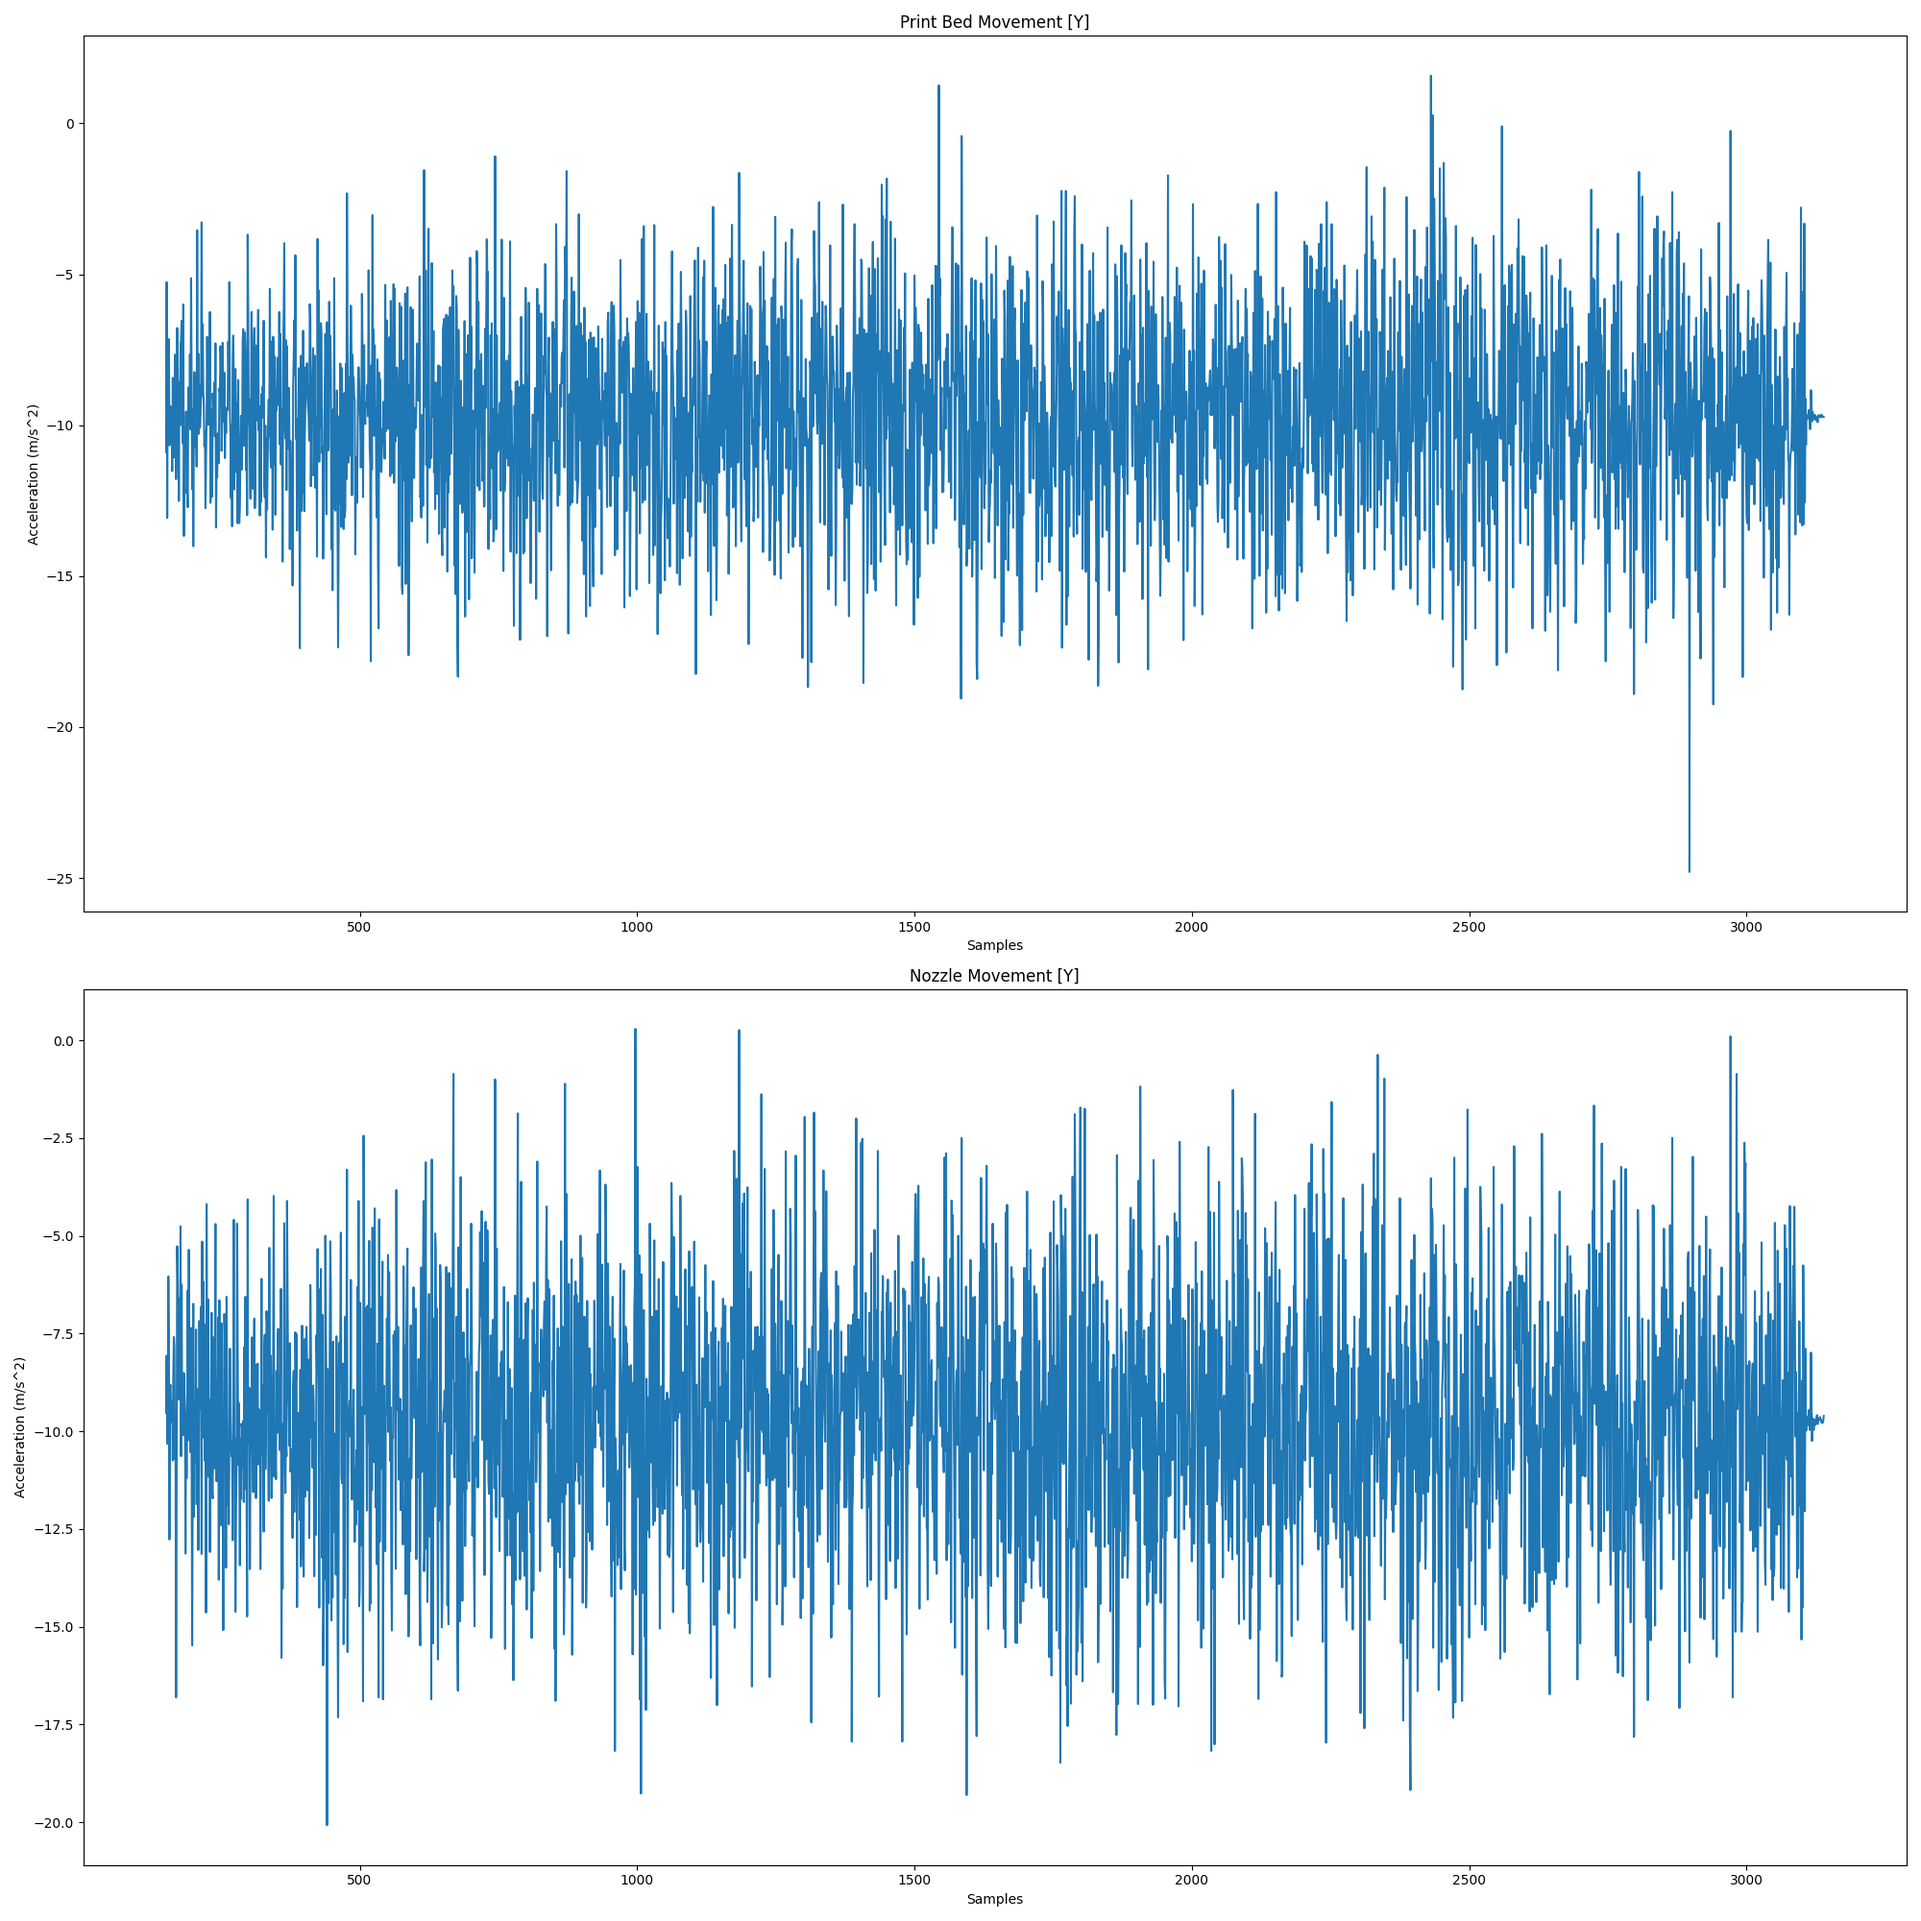
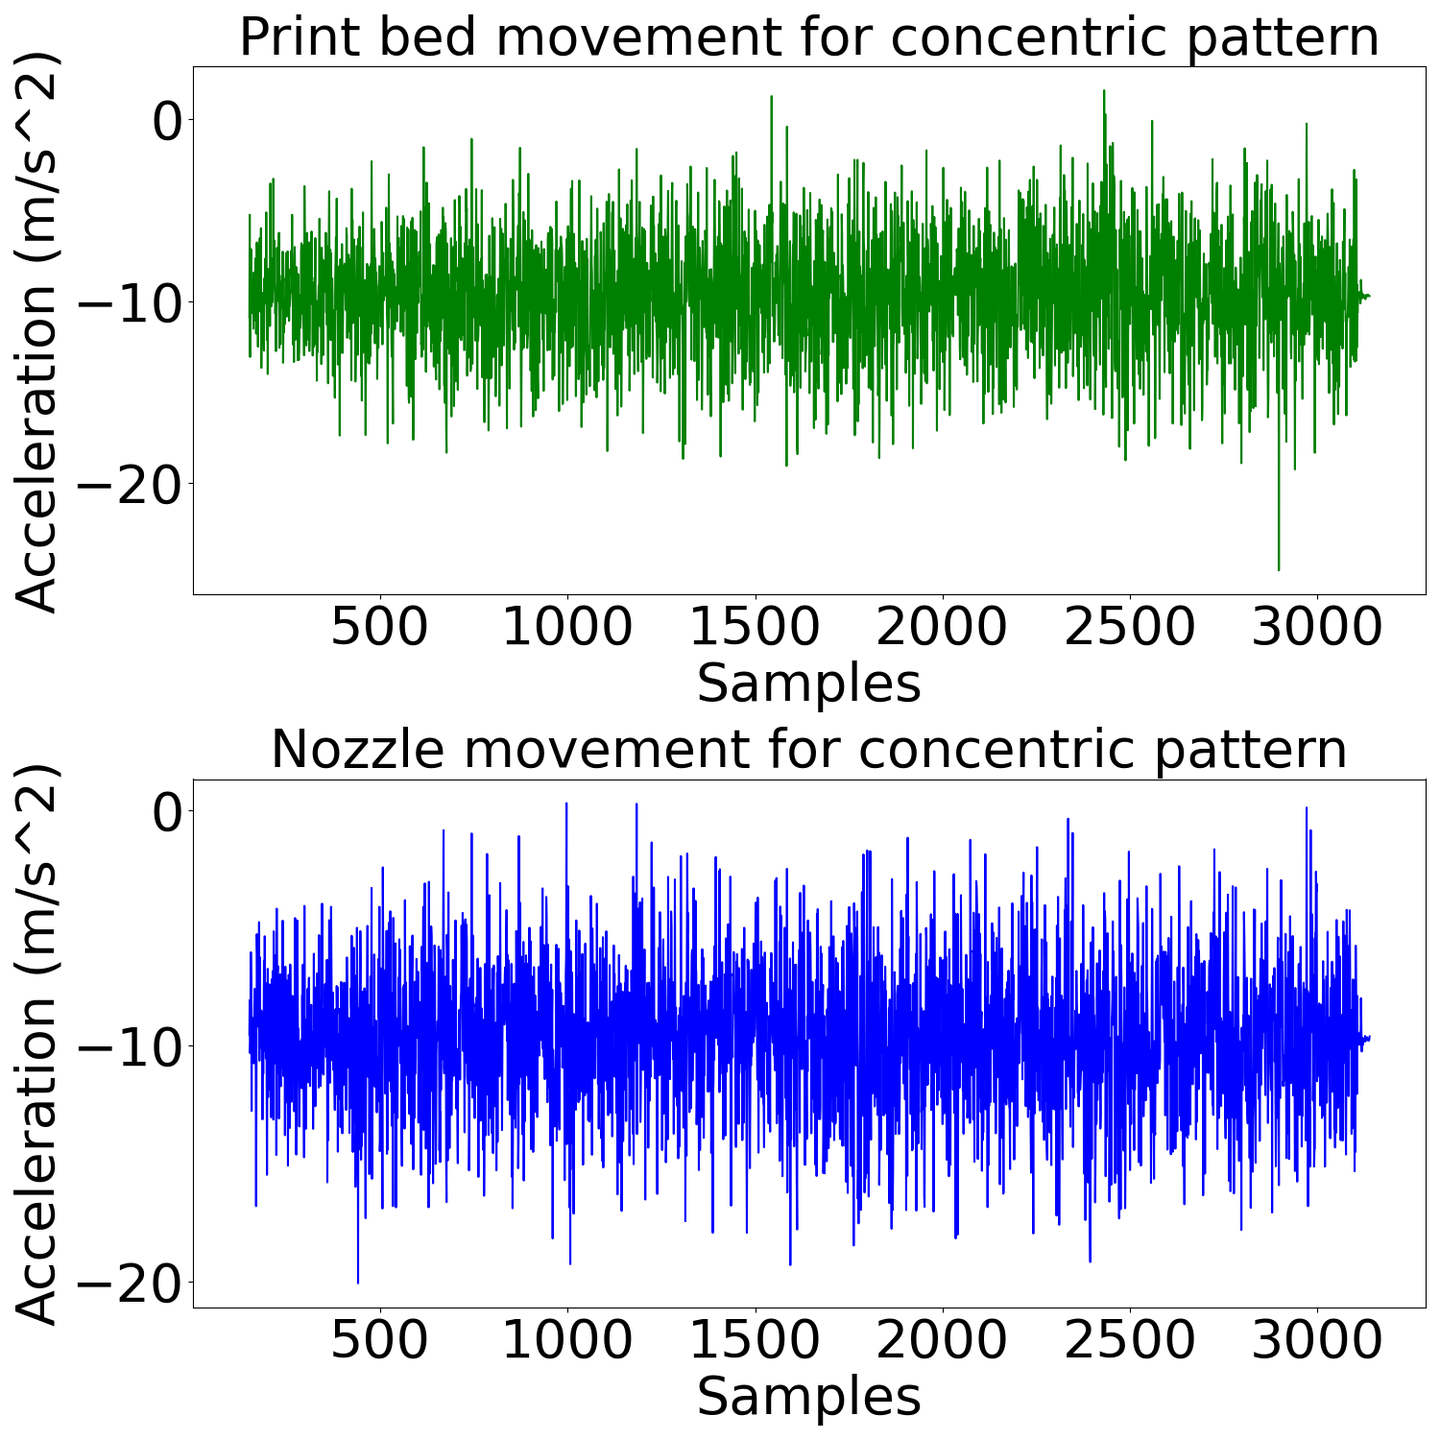
Figures finalizing and prelim ML improvements

diff --git a/Team_1_FourChannels_CompleteVisuals.py b/Team_1_FourChannels_CompleteVisuals.py
@@ -5,7 +5,7 @@ import matplotlib.pyplot as plt
 filePath = 'Team_1_FourChannels'
 
 date = 20250502
-pattern = 'triangle'
+pattern = 'concentric'
 channels = '4'
 sampling = '5Hz'
 run = '1'
@@ -34,31 +34,36 @@ print(f'Loaded all data, dropped first {dropRowValue} rows (or equivalent to alm
 # acoustic channels
 figureOne, axes = plt.subplots(2, 1, figsize=(20, 20))
 
-acousticTitles = [f'Sound Sensor Right {pattern}', f'Sound Sensor Left {pattern}']
+acousticTitles = [f'Right sound sensor for {pattern} pattern', f'Left sound sensor for {pattern} pattern']
 allSounds = [sR, sL]
+colors = ['r', 'orange']
+
+fontSize = 36
 
 for i, ax in enumerate(axes.flat):
-    ax.set_title(acousticTitles[i])
-    ax.plot(allSounds[i]) 
-    ax.set_xlabel('Samples')
-    ax.set_ylabel('Amplitude (volts)')
+    ax.set_title(acousticTitles[i], fontsize=fontSize)
+    ax.plot(allSounds[i], color=colors[i]) 
+    ax.set_xlabel('Samples', fontsize=fontSize)
+    ax.set_ylabel('Amplitude (volts)', fontsize=fontSize)
+    ax.tick_params(axis='both', which='major', labelsize=fontSize)
 plt.tight_layout()
 
 # save results
 figureOne.savefig('3 Figures' + f'/Acoustic Channels for {date}_{pattern}_{sampling}_{channels}_{run}.png')
 
 #%% vibration channels of print bed accelerometer
-figureTwo, axes = plt.subplots(2, 1, figsize=(20, 20))
+figureTwo, axes = plt.subplots(2, 1, figsize=(15, 15))
 
-vibrationTitles = ['Print Bed Movement [Y]', 'Nozzle Movement [Y]']
-
+vibrationTitles = [f'Print bed movement for {pattern} pattern', f'Nozzle movement for {pattern} pattern']
 allVibrations = [yP, yN]
+colors = ['g', 'b']
 
 for i, ax in enumerate(axes.flat):
-    ax.set_title(vibrationTitles[i])
-    ax.plot(allVibrations[i]) 
-    ax.set_xlabel('Samples')
-    ax.set_ylabel('Acceleration (m/s^2)')
+    ax.set_title(vibrationTitles[i], fontsize=fontSize)
+    ax.plot(allVibrations[i], color=colors[i]) 
+    ax.set_xlabel('Samples', fontsize=fontSize)
+    ax.set_ylabel('Acceleration (m/s^2)', fontsize=fontSize)
+    ax.tick_params(axis='both', which='major', labelsize=fontSize)
 plt.tight_layout()
 
 # save results

diff --git a/Team_1_FourChannels_DataPreprocessing.py b/Team_1_FourChannels_DataPreprocessing.py
@@ -5,7 +5,7 @@ import matplotlib.pyplot as plt
 filePath = 'Team_1_FourChannels'
 
 date = 20250502
-pattern = 'triangle'
+pattern = 'concentric'
 channels = '4'
 sampling = '5Hz'
 run = '1'
